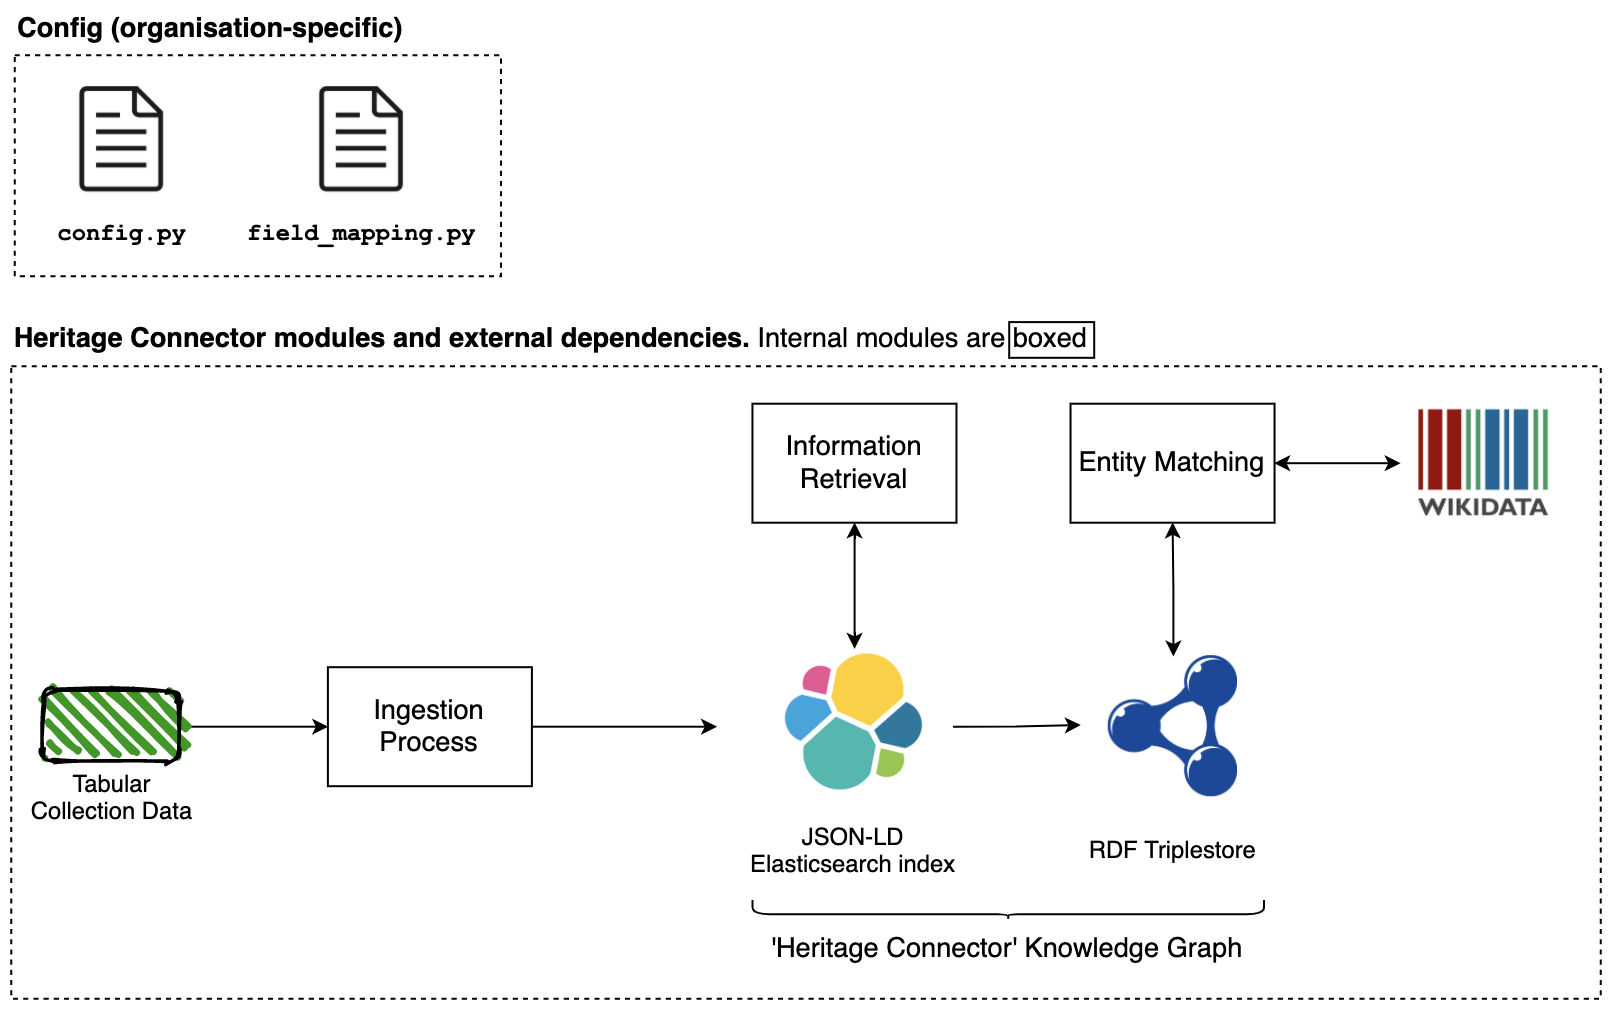
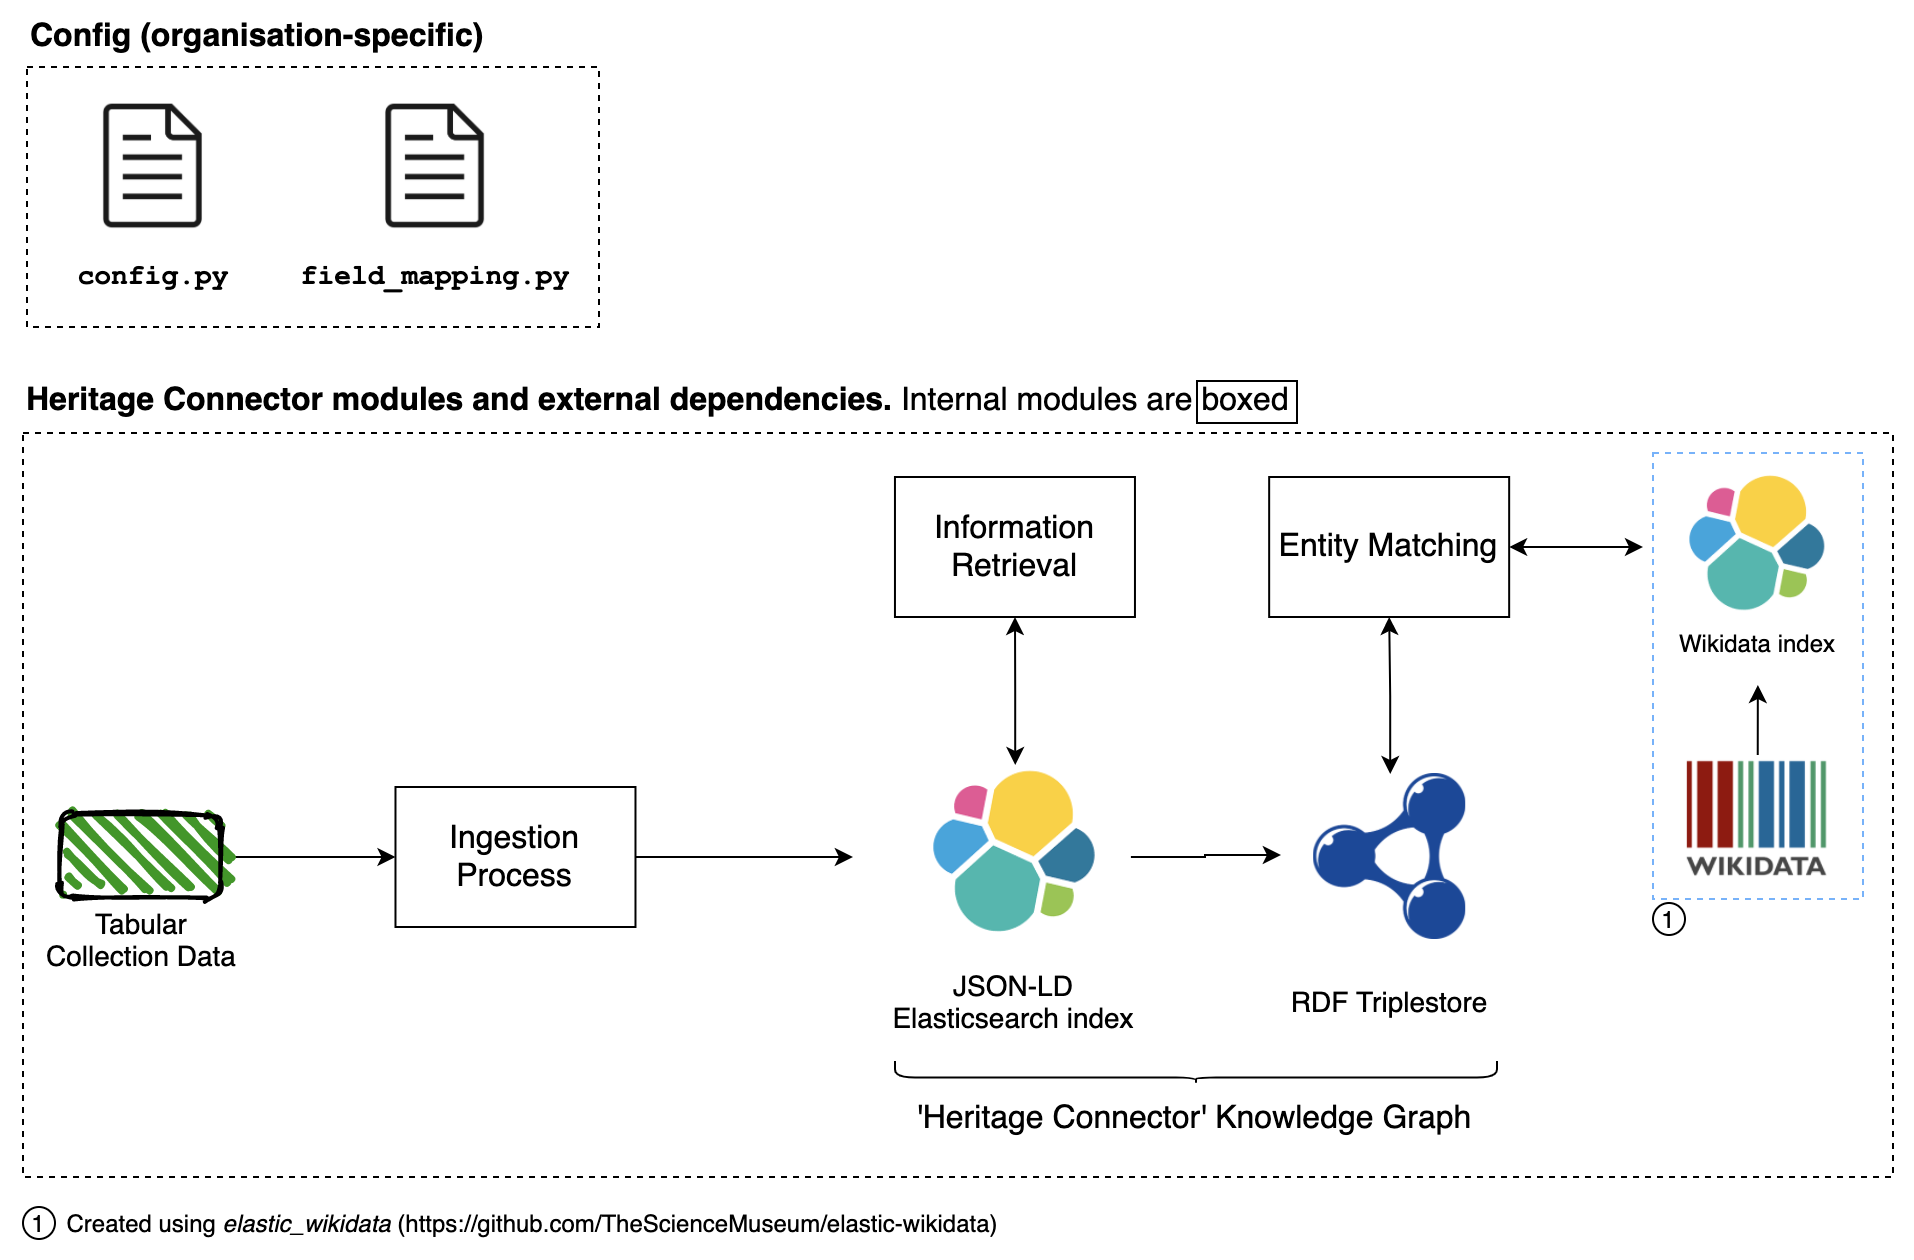
docs: add details of wikidata dump

diff --git a/docs/architecture.rst b/docs/architecture.rst
@@ -24,6 +24,8 @@ Dependencies
 
 There are two database dependencies for Heritage Connector: Elasticsearch and an RDF triplestore. We use Apache Fuseki for our triplestore, however any with a SPARQL endpoint should be compatible. Details to access these databases are set in :code:`config.ini` (see `Config`_ for details).
 
+The JSON-LD version of the graph sits in an Elasticsearch index called `heritageconnector` by default. To enable entity matching with Wikidata another index must also be created from Wikidata as in ⓵ above. This can be created using elastic-wikidata. **TODO: Instructions/e-w config.**
+
 Config
 ------
 
